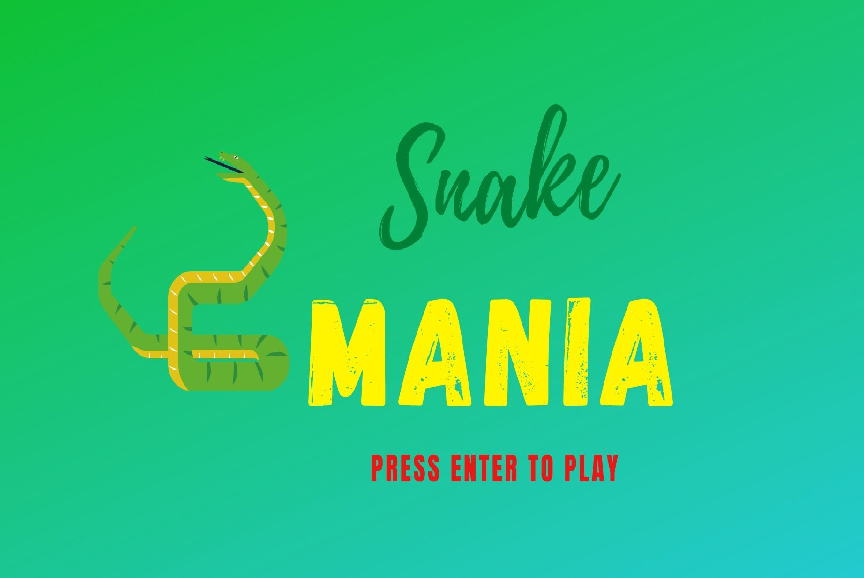
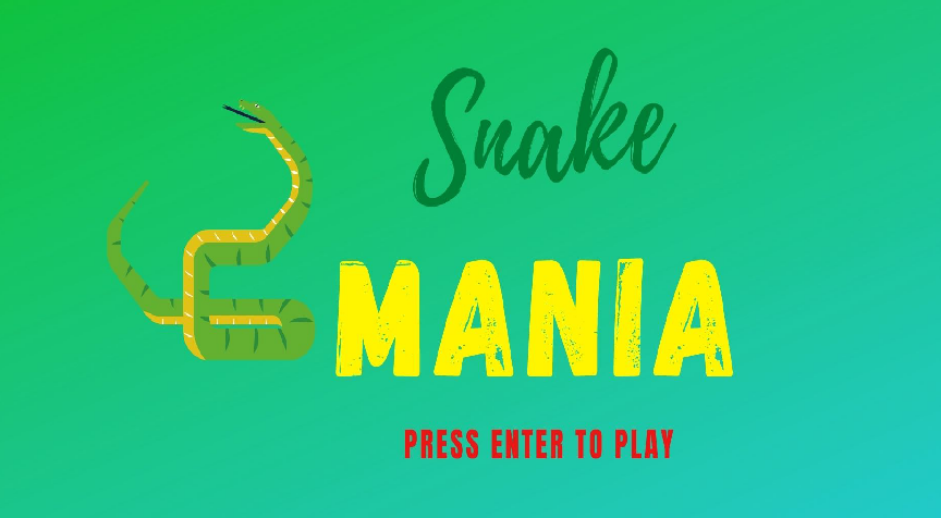
pr2 changes

diff --git a/style.css b/style.css
@@ -874,14 +874,14 @@ div[data-scroll="in"] .pr1_picture {
 }
 .pr2_border{
 	position: relative;
-	perspective: 500px;
+	perspective: 460px;
 	/* border: 1px solid black; */
 	background: transparent;
 	margin: 4.5rem 0;
 	display: flex;
 } 		
 .pr2 .pr2_picture img{
-	width: 40rem;
+	width: 45rem;
 	border-radius: .5rem;
 	
 }
